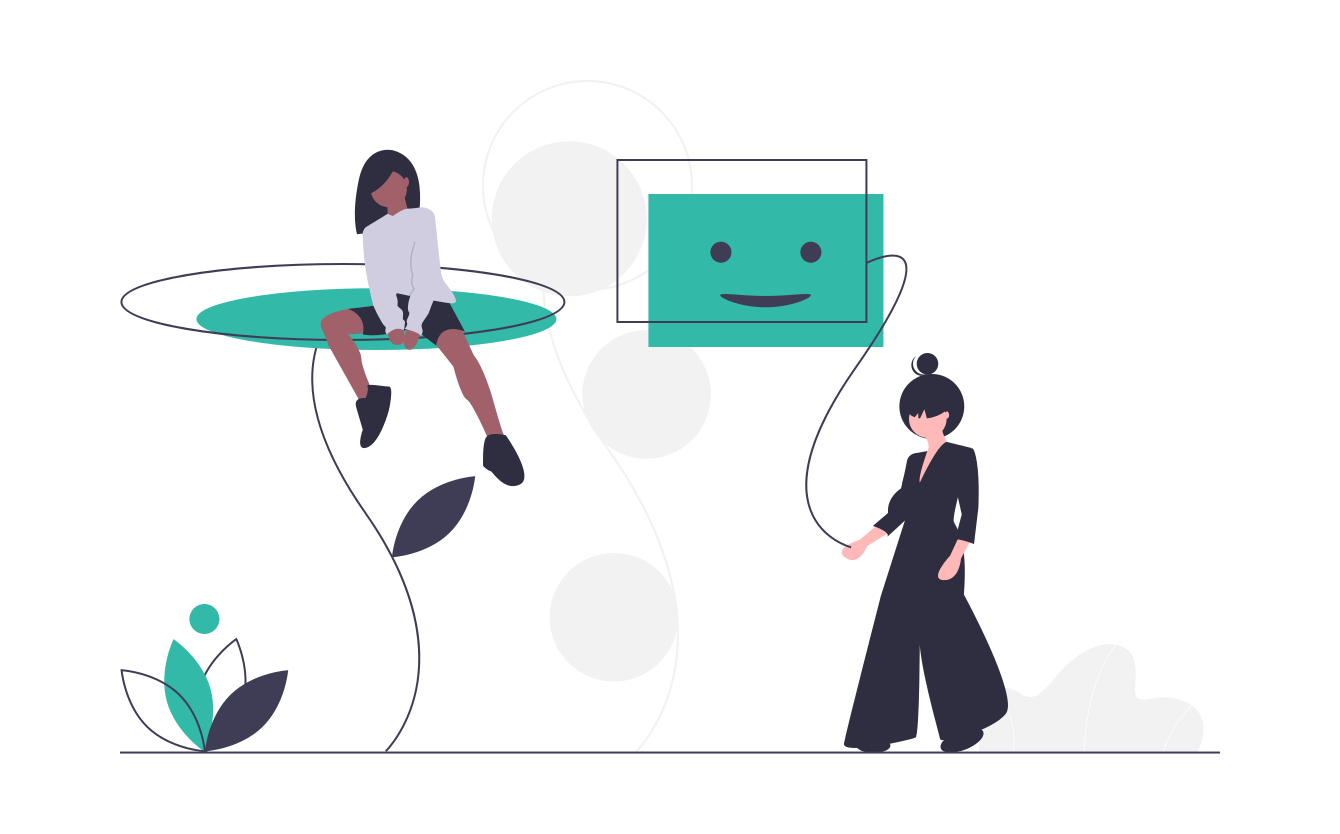
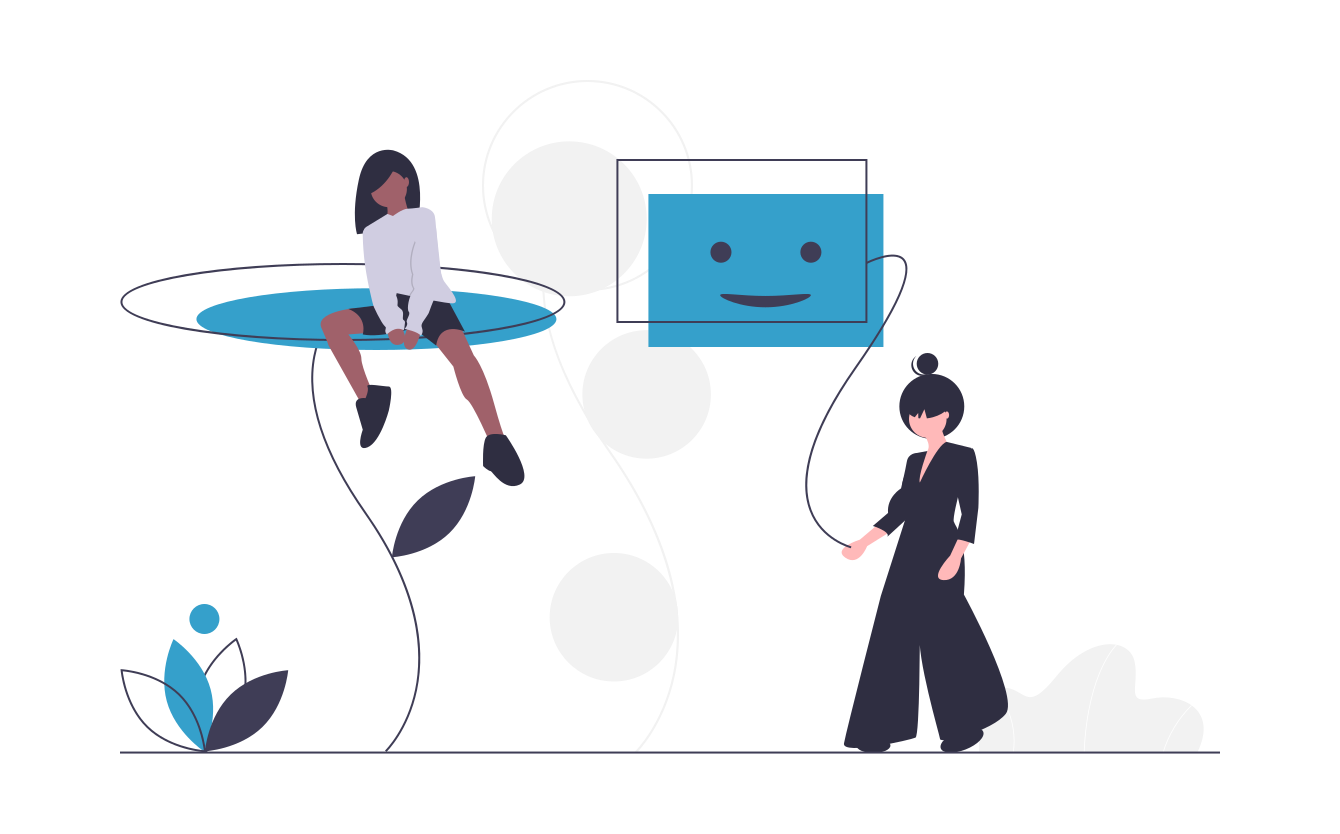
add: theme変更

Changed region(s): [[0.459, 0.2182, 0.6731, 0.4365], [0.153, 0.3429, 0.4284, 0.4365], [0.1224, 0.717, 0.1836, 0.9041]]

diff --git a/lib/app.dart b/lib/app.dart
@@ -14,7 +14,6 @@ import 'screen/splash_screen.dart';
 import 'screen/welcome_screen/welcome_screen.dart';
 import 'state/auth_state/auth_state.dart';
 import 'state/auth_state/auth_state_provider.dart';
-import 'theme.dart';
 
 class App extends HookWidget {
   @override
@@ -51,12 +50,13 @@ class App extends HookWidget {
         title: 'pairium',
         navigatorKey: navigatorKey,
         theme: FlexColorScheme.light(
-          colors: customFlexScheme.light,
-          // scaffoldBackground: const Color(0xffEDF2F3),
-          // background: const Color(0xffffffff),
+          scheme: FlexScheme.aquaBlue,
+          appBarStyle: FlexAppBarStyle.background,
         ).toTheme,
-        darkTheme: FlexColorScheme.dark(colors: customFlexScheme.light.toDark())
-            .toTheme,
+        darkTheme: FlexColorScheme.dark(
+          scheme: FlexScheme.aquaBlue,
+          appBarStyle: FlexAppBarStyle.background,
+        ).toTheme,
         // themeMode: ThemeMode.dark,
         builder: EasyLoading.init(),
         localizationsDelegates: const [

diff --git a/lib/screen/log_in_screen/log_in_screen.dart b/lib/screen/log_in_screen/log_in_screen.dart
@@ -4,6 +4,7 @@ import 'package:flutter/material.dart';
 import 'package:flutter_easyloading/flutter_easyloading.dart';
 import 'package:flutter_hooks/flutter_hooks.dart';
 import 'package:hooks_riverpod/hooks_riverpod.dart';
+import 'package:pairium/screen/sign_in_screen/sign_in_screen.dart';
 
 import '../../components/widgets/buttons/round_border_button.dart';
 import '../../constants.dart';
@@ -202,7 +203,8 @@ class LogInScreen extends HookWidget {
                             ),
                           ),
                           TextButton(
-                            onPressed: () => Navigator.pop(context),
+                            onPressed: () =>
+                                Navigator.push(context, SignInScreen.route()),
                             child: const Text(
                               '新規登録',
                               style: TextStyle(

diff --git a/lib/screen/sign_in_screen/sign_in_screen.dart b/lib/screen/sign_in_screen/sign_in_screen.dart
@@ -54,7 +54,7 @@ class SignInScreen extends HookWidget {
             child: Column(
               children: [
                 Image.asset(
-                  'assets/singIn.png',
+                  'assets/signIn.png',
                   height: MediaQuery.of(context).size.height / 4,
                 ),
                 Container(
